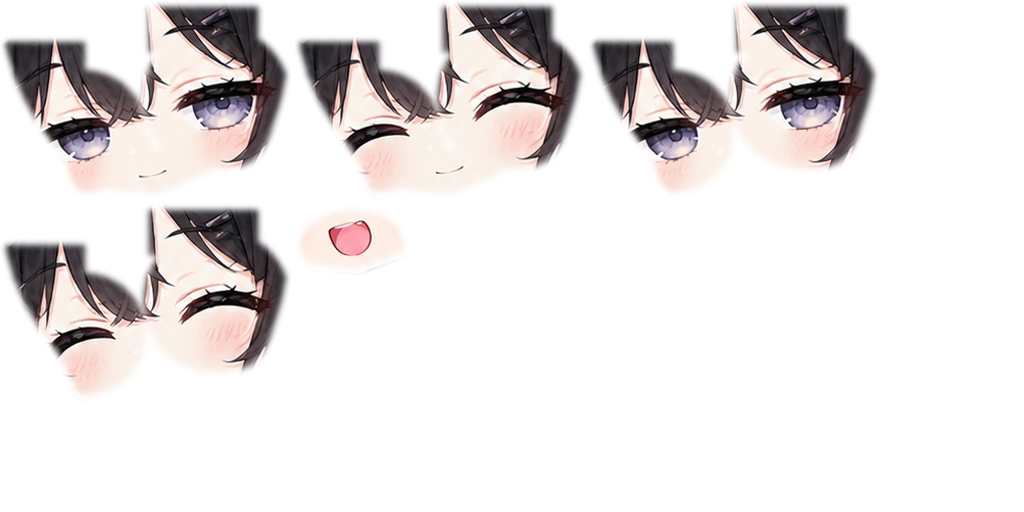
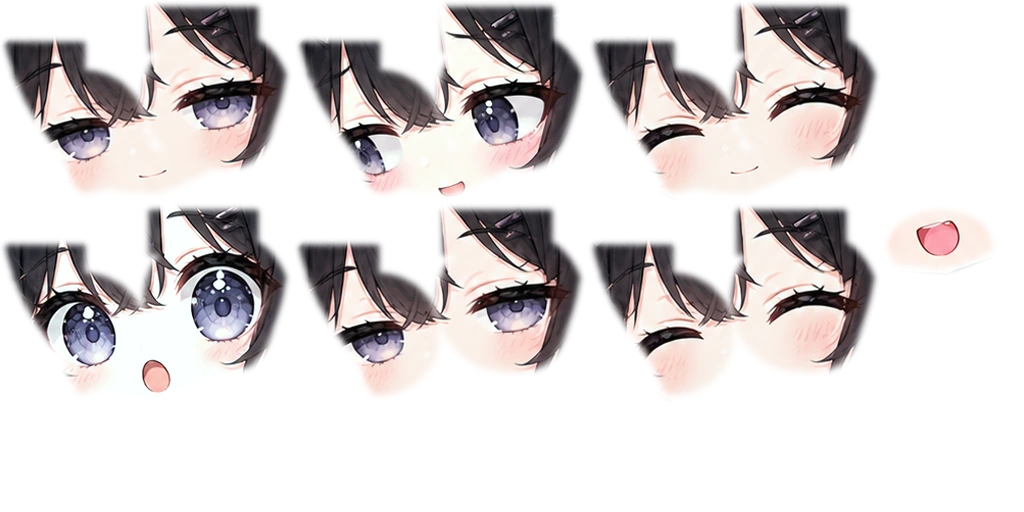
更新 2026-10-21 06:28

Changed region(s): [[0.0, 0.3438, 0.9688, 0.7812], [0.2812, 0.0, 0.875, 0.3438], [0.7188, 0.3125, 0.75, 0.3438]]

diff --git a/sd-puppet.js b/sd-puppet.js
@@ -305,7 +305,13 @@ void main(){ vec4 c = texture2D(uTex, vUV); if (c.a < uCut) discard; gl_FragColo
     setManual(m) { this.manual = m ? { yaw: m.yaw || 0, pitch: m.pitch || 0 } : null; this.lastInput = performance.now(); }
     talk(ms = 1500) { this.talkUntil = performance.now() + ms; }
     // 表情を固定表示（素材フォルダの「役割名」。null で解除）。例: setExpression('笑顔')
-    setExpression(name) { this.expr = name; }
+    setExpression(name) { this.expr = name; this._fixedExpr = !!name; }
+    // 反応に合わせて表情を一瞬だけ出す（その表情の絵が無ければ何もしない。setExpression で固定中は邪魔しない）
+    _flash(name, ms) {
+      if (this._fixedExpr || !this.byName[name + ':face']) return;
+      this.expr = name; clearTimeout(this._flashT);
+      this._flashT = setTimeout(() => { if (!this._fixedExpr && this.expr === name) this.expr = null; }, ms);
+    }
 
     react(type) {
       const S = this.S;
@@ -313,7 +319,7 @@ void main(){ vec4 c = texture2D(uTex, vUV); if (c.a < uCut) discard; gl_FragColo
       switch (type) {
         case 'surprise':
           S.squash.kick(-3); this._hop(260); S.armR.kick(-2.2); S.armL.kick(-2.5); S.wide.t = 1; S.brow.t = 1; S.mouth.t = 0.7; this.open = 1; this.blinkPhase = -1;
-          S.hairY.kick(40); this._particle('!', 0.78, 0.0, '#ff5a7a');
+          S.hairY.kick(40); this._particle('!', 0.78, 0.0, '#ff5a7a'); this._flash('驚き', 900);
           setTimeout(() => { S.wide.t = 0; S.brow.t = 0; S.mouth.t = 0; this._blink(); }, 700);
           break;
         case 'happy':
@@ -322,7 +328,7 @@ void main(){ vec4 c = texture2D(uTex, vUV); if (c.a < uCut) discard; gl_FragColo
           setTimeout(() => { S.mouth.t = 0; }, 900);
           break;
         case 'shy':
-          S.blush.t = 1; this._happyEyes(1400); S.yaw.t = -0.6; S.pitch.t = -0.35; S.roll.t = -0.08; S.eyeX.t = -0.8;
+          S.blush.t = 1; this._happyEyes(1400); this._flash('照れ', 1900); S.yaw.t = -0.6; S.pitch.t = -0.35; S.roll.t = -0.08; S.eyeX.t = -0.8;
           this._lookAway = performance.now() + 1700;
           setTimeout(() => { S.blush.t = 0.3; }, 1800);
           break;
